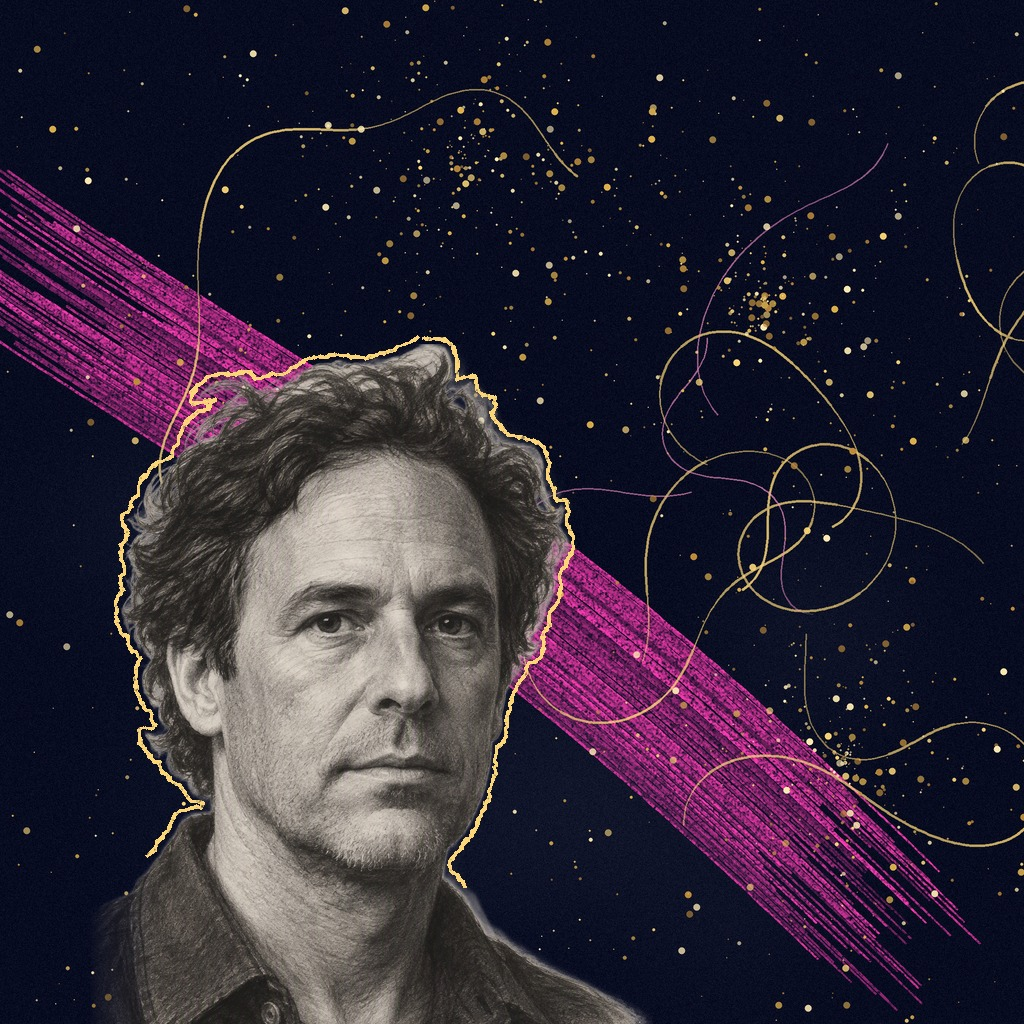
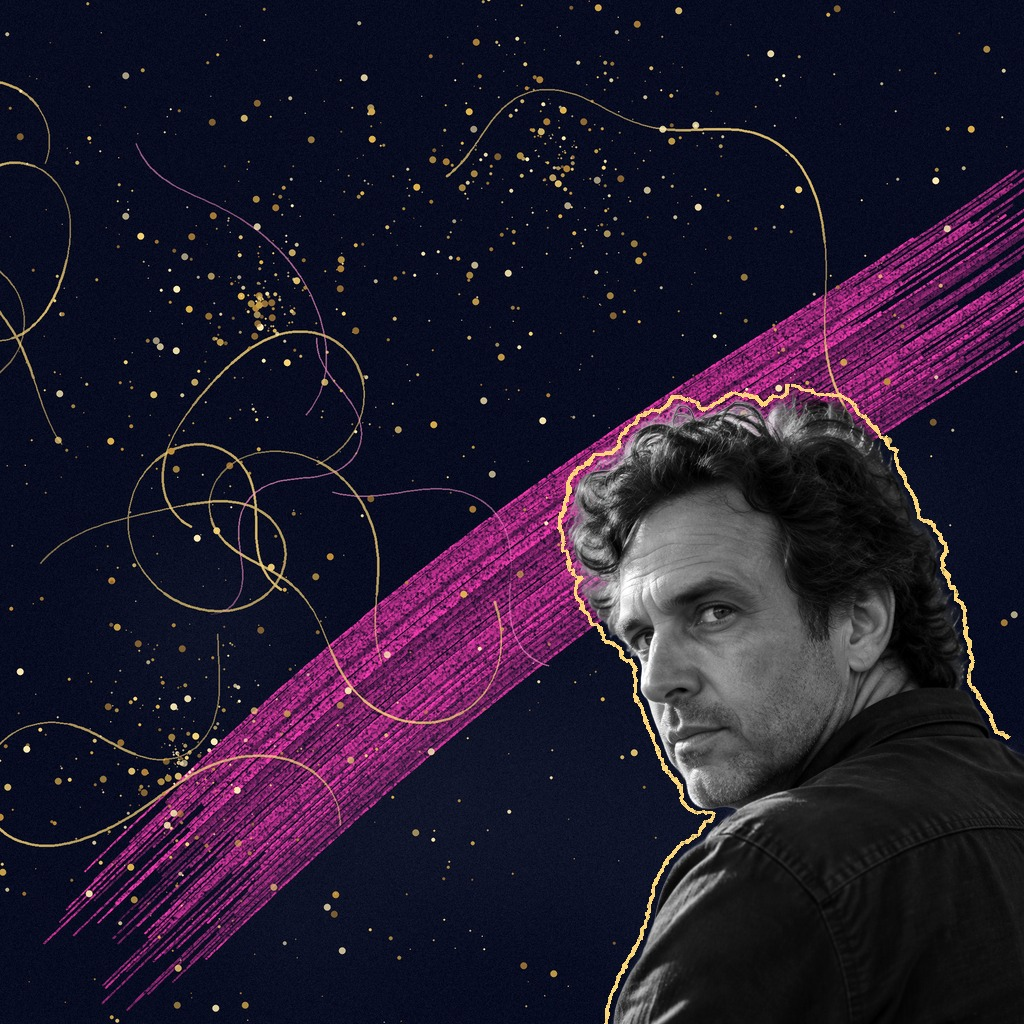
S03E06 box: black-and-white filmmaker portrait in the right corner
Claude-Session: https://claude.ai/code/session_011MVAnQFHQ9Wv2cvGWey2uC

diff --git a/src/components/episode-block.tsx b/src/components/episode-block.tsx
@@ -24,7 +24,7 @@ const episodePortraits: Record<string, string> = {
 };
 
 // Boxes whose portrait sits on the left keep that side in view when the box crops the picture.
-const portraitLeft = new Set(["s03e06"]);
+const portraitLeft = new Set<string>([]);
 
 
 function formatDate(iso: string) {
